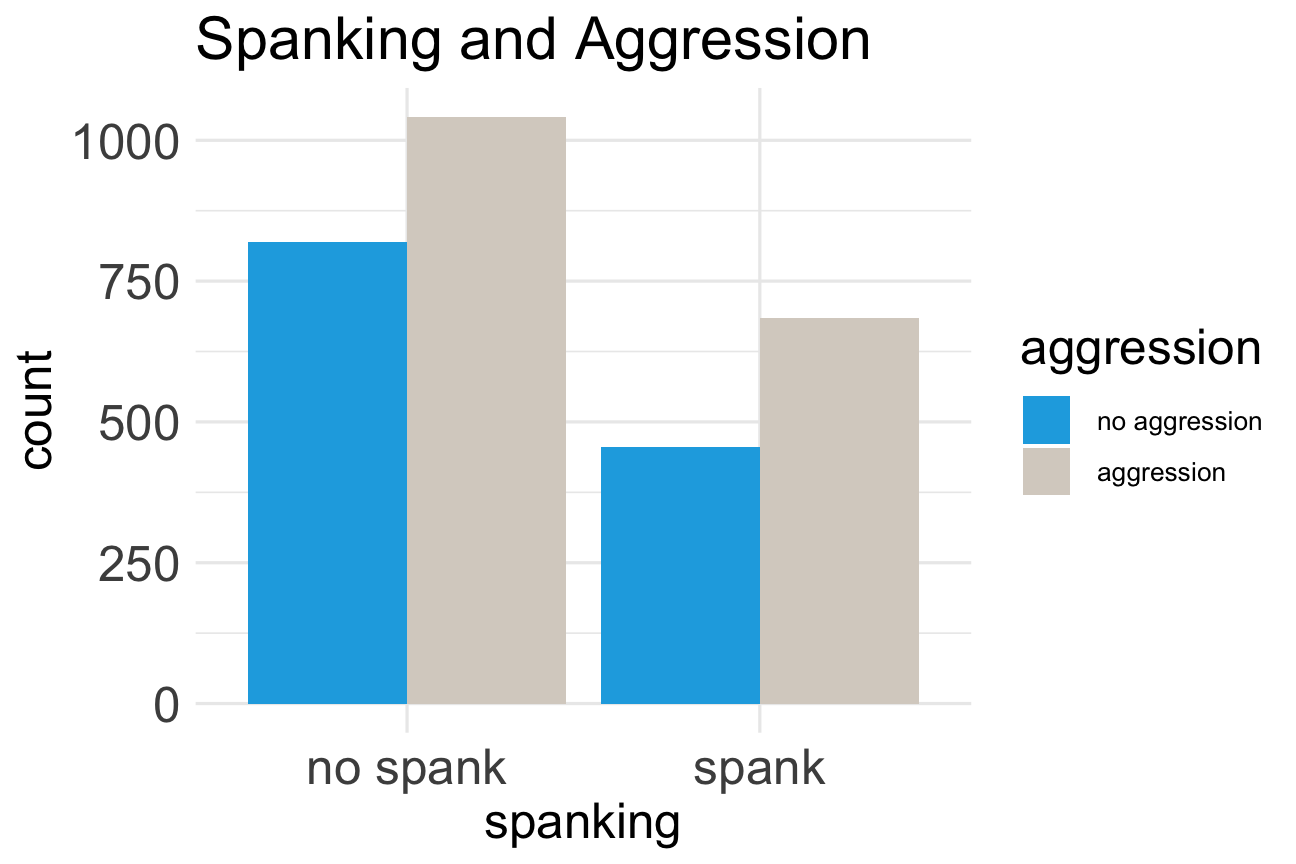
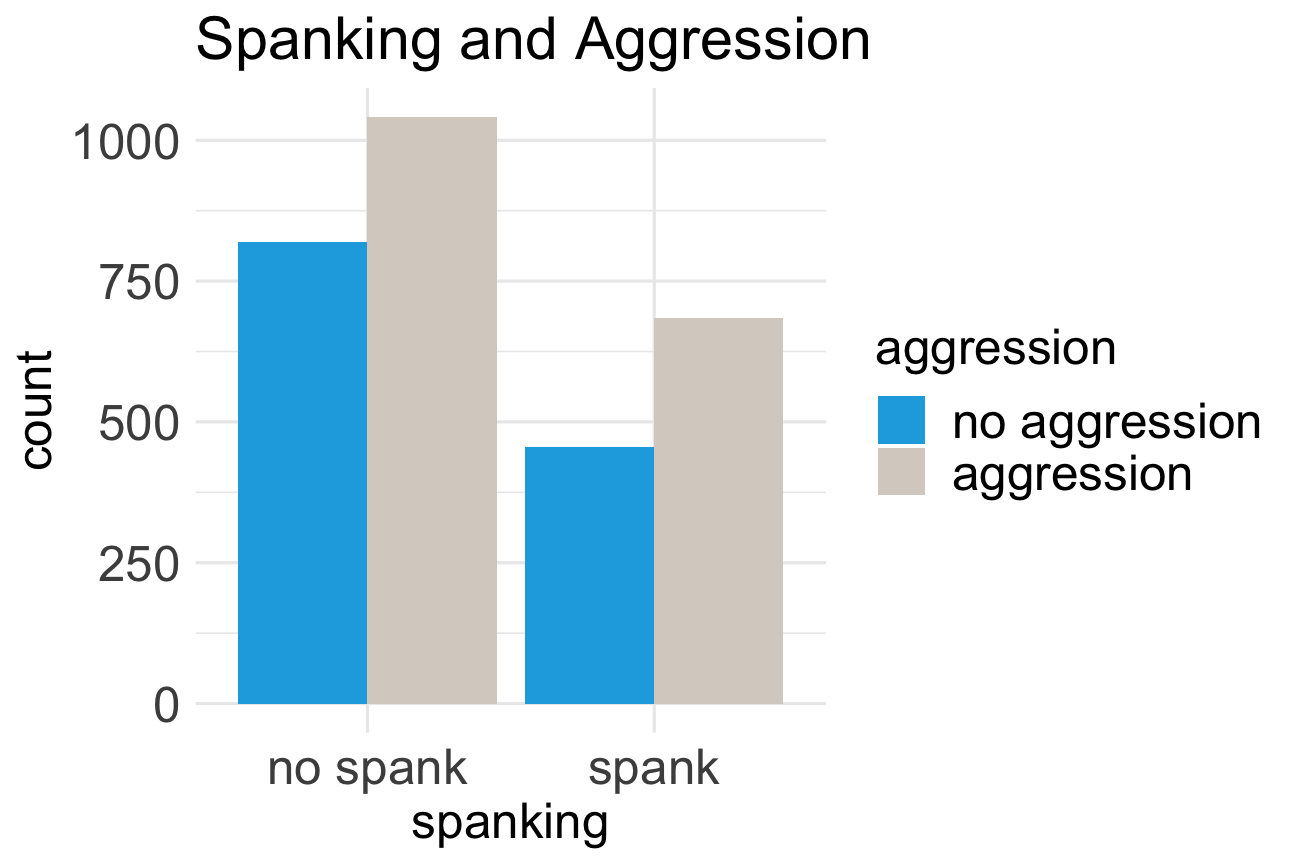
graphical tweaks

diff --git a/index.html b/index.html
@@ -4,7 +4,7 @@
     <title>An Incremental ggplot Tutorial</title>
     <meta charset="utf-8" />
     <meta name="author" content="Andy Grogan-Kaylor" />
-    <meta name="date" content="2024-04-19" />
+    <meta name="date" content="2024-04-22" />
     <script src="libs/header-attrs-2.25/header-attrs.js"></script>
     <link href="libs/remark-css-0.0.1/default.css" rel="stylesheet" />
     <link href="libs/remark-css-0.0.1/hygge.css" rel="stylesheet" />
@@ -34,7 +34,7 @@ class: center, middle, inverse, title-slide
 ### Andy Grogan-Kaylor
 ]
 .date[
-### 2024-04-19
+### 2024-04-22
 ]
 
 ---
@@ -133,7 +133,7 @@ count: false
 .panel1-graph1-non_seq[
 
 ```r
-ggplot(MICSsimulated,
+ggplot(MICSsimulated,  # the data I am using
        aes(  # aesthetic: what is in the graph
          )) +
   labs(  # labels
@@ -154,7 +154,7 @@ count: false
 .panel1-graph1-non_seq[
 
 ```r
-ggplot(MICSsimulated,
+ggplot(MICSsimulated,  # the data I am using
        aes(  # aesthetic: what is in the graph
 *        x = cd1,
          )) +
@@ -176,7 +176,7 @@ count: false
 .panel1-graph1-non_seq[
 
 ```r
-ggplot(MICSsimulated,
+ggplot(MICSsimulated,  # the data I am using
        aes(  # aesthetic: what is in the graph
          x = cd1,
          )) +
@@ -200,7 +200,7 @@ count: false
 .panel1-graph1-non_seq[
 
 ```r
-ggplot(MICSsimulated,
+ggplot(MICSsimulated,  # the data I am using
        aes(  # aesthetic: what is in the graph
          x = cd1,
 *        fill = aggression
@@ -225,7 +225,7 @@ count: false
 .panel1-graph1-non_seq[
 
 ```r
-ggplot(MICSsimulated,
+ggplot(MICSsimulated,  # the data I am using
        aes(  # aesthetic: what is in the graph
          x = cd1,
          fill = aggression
@@ -251,7 +251,7 @@ count: false
 .panel1-graph1-non_seq[
 
 ```r
-ggplot(MICSsimulated,
+ggplot(MICSsimulated,  # the data I am using
        aes(  # aesthetic: what is in the graph
          x = cd1,
          fill = aggression
@@ -278,7 +278,7 @@ count: false
 .panel1-graph1-non_seq[
 
 ```r
-ggplot(MICSsimulated,
+ggplot(MICSsimulated,  # the data I am using
        aes(  # aesthetic: what is in the graph
          x = cd1,
          fill = aggression
@@ -307,7 +307,7 @@ count: false
 .panel1-graph1-non_seq[
 
 ```r
-ggplot(MICSsimulated,
+ggplot(MICSsimulated,  # the data I am using
        aes(  # aesthetic: what is in the graph
          x = cd1,
          fill = aggression
@@ -339,7 +339,7 @@ count: false
 .panel1-graph1-non_seq[
 
 ```r
-ggplot(MICSsimulated,
+ggplot(MICSsimulated,  # the data I am using
        aes(  # aesthetic: what is in the graph
          x = cd1,
          fill = aggression
@@ -358,7 +358,8 @@ ggplot(MICSsimulated,
 * theme_minimal() +
   theme(  # theme
 *   title = element_text(size = rel(1.5)),
-*   axis.text = element_text(size = rel(1.5))
+*   axis.text = element_text(size = rel(1.5)),
+*   legend.text=element_text(size = rel(1.5))
     )
 ```
 ]
